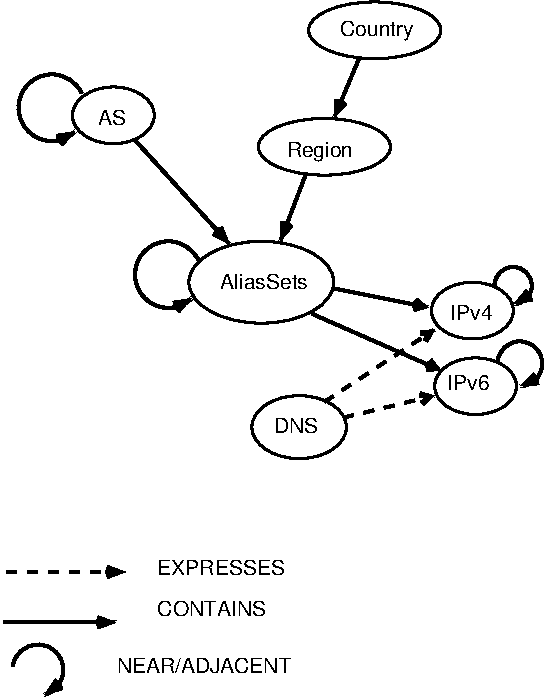
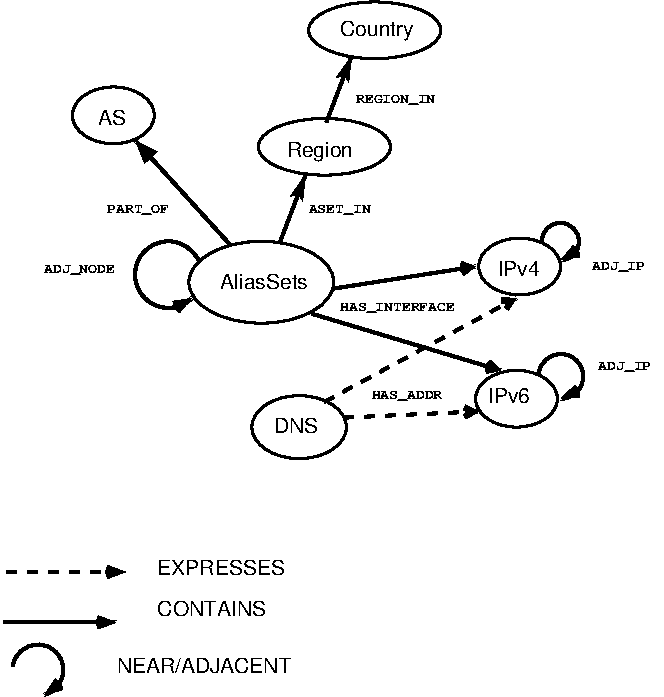
Fix typo/bug in direction of semantic relations

diff --git a/pkg/CAIDA_SST/CAIDA_SST.go b/pkg/CAIDA_SST/CAIDA_SST.go
@@ -187,11 +187,12 @@ type VectorPair struct {
 
 func InitializeSmartSpaceTime() {
 
+	// - sign indicates arrow points in opposite direction to assumed semantics, e.g. "CONTAINS"
 
 	ASSOCIATIONS["PART_OF"] = Association{"PART_OF",-GR_CONTAINS,"incorporates","is part of","is not part of","doesn't contribute to"}
 
-	ASSOCIATIONS["ASET_IN"] = Association{"ASET_IN",GR_CONTAINS,"is located in","contains","is not in","doesn't contain"}
-	ASSOCIATIONS["REGION_IN"] = Association{"REGION_IN",GR_CONTAINS,"is located in","contains","is not in","doesn't contain"}
+	ASSOCIATIONS["ASET_IN"] = Association{"ASET_IN",-GR_CONTAINS,"is located in","contains","is not in","doesn't contain"}
+	ASSOCIATIONS["REGION_IN"] = Association{"REGION_IN",-GR_CONTAINS,"is located in","contains","is not in","doesn't contain"}
 	ASSOCIATIONS["HAS_INTERFACE"] = Association{"HAS_INTERFACE",GR_CONTAINS,"has interface address","is an interface address of","does not have interface","not an interface address of"}
 
 	// *
@@ -339,6 +340,10 @@ func CreateAS(g ITDK, name,method string) Node {
 func CreateRegion(g ITDK, shortname,fullname string, lat,long float64) Node {
 
 	var region Node
+
+	if fullname == "" {
+		fullname = "Data error in file format"
+	}
 
 	if shortname == "" {
 		shortname = strings.ReplaceAll(fullname," ","_")
